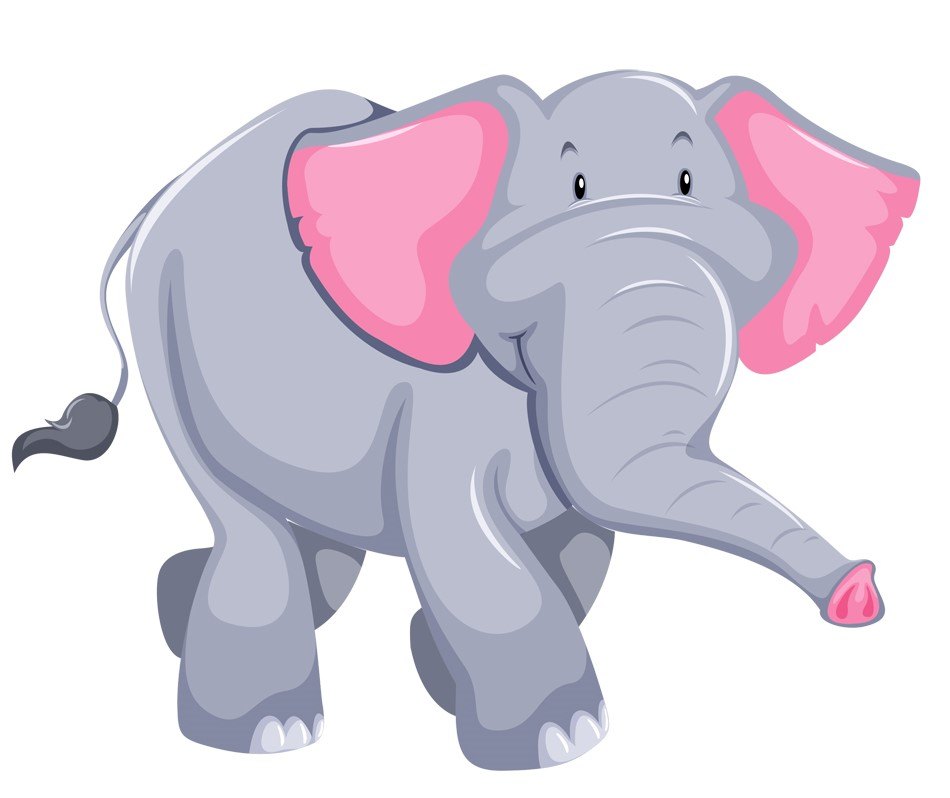
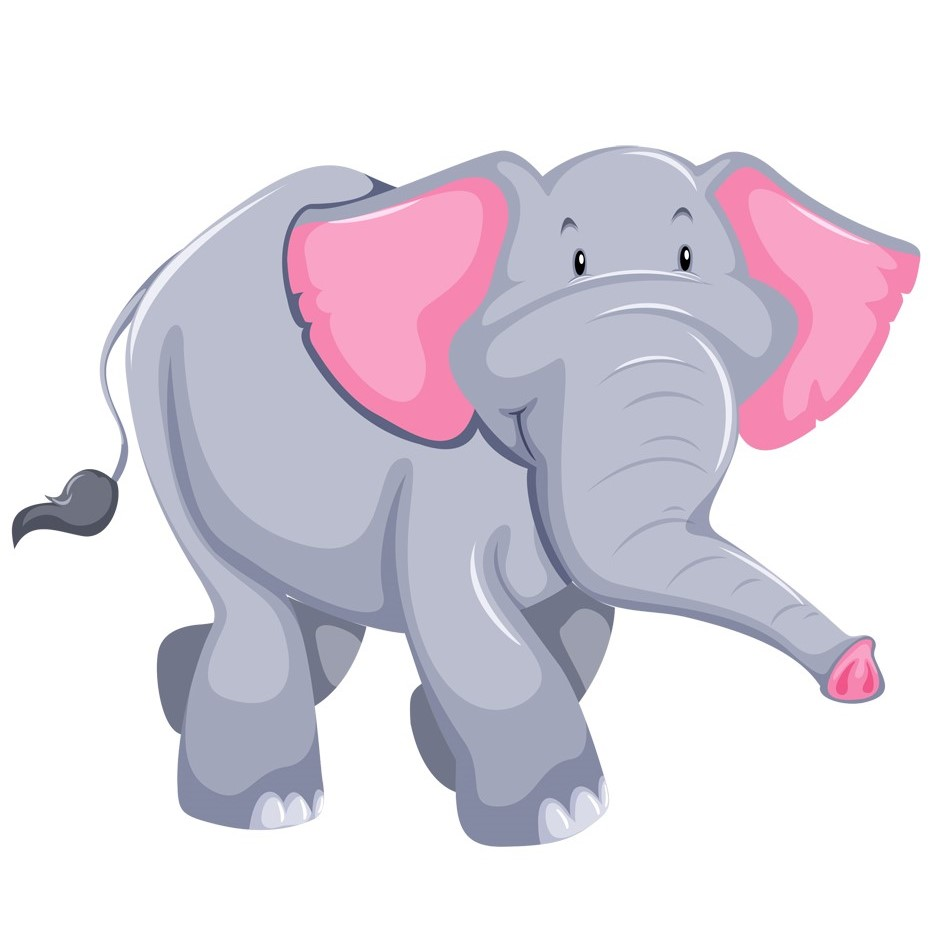
change images to square size

Changed region(s): [[0.0916, 0.0602, 0.9768, 0.4812], [0.1526, 0.5113, 0.9463, 0.9925], [0.0, 0.5113, 0.1221, 0.6015]]

diff --git a/src/components/Card.vue b/src/components/Card.vue
@@ -1,30 +1,14 @@
 <template>
-  <v-card
-    hover
-    width="130"
-    height="130"
-    @click="emitCardClicked"
-    class="justify-center"
-  >
-    <div class="pa-0 center-content">
-      <v-spacer></v-spacer>
+  <v-card hover :width="cardSize" :height="cardSize" @click="emitCardClicked">
+    <div class="pa-0">
       <div v-if="cardInfo.isShow">
-        <v-img
-          :src="getImageUrl()"
-          class="rounded"
-          max-width="130px"
-          max-height="130px"
-          width="auto"
-          height="auto"
-        ></v-img>
+        <v-img :src="getImageUrl()" class="rounded"></v-img>
       </div>
       <div v-else>
         <v-img
           src="../assets/images/card-background.jpg"
           alt="background"
           class="rounded"
-          max-width="130px"
-          max-height="130px"
         ></v-img>
       </div>
     </div>
@@ -42,6 +26,12 @@ export default {
     },
   },
 
+  data: function () {
+    return {
+      cardSize: 130,
+    };
+  },
+
   methods: {
     emitCardClicked() {
       this.$emit("cardClicked", this.cardInfo);
@@ -53,11 +43,3 @@ export default {
   },
 };
 </script>
-
-<style>
-.center-content {
-  display: flex;
-  align-items: center;
-  height: 100%;
-}
-</style>

diff --git a/src/components/MemoryGame.vue b/src/components/MemoryGame.vue
@@ -33,7 +33,7 @@
             />
           </v-card-actions>
         </v-card>
-        <div class="text--secondary">
+        <div class="text--secondary my-2">
           Images credit:
           <a href="http://www.freepik.com">Designed by brgfx / Freepik</a>
         </div>
